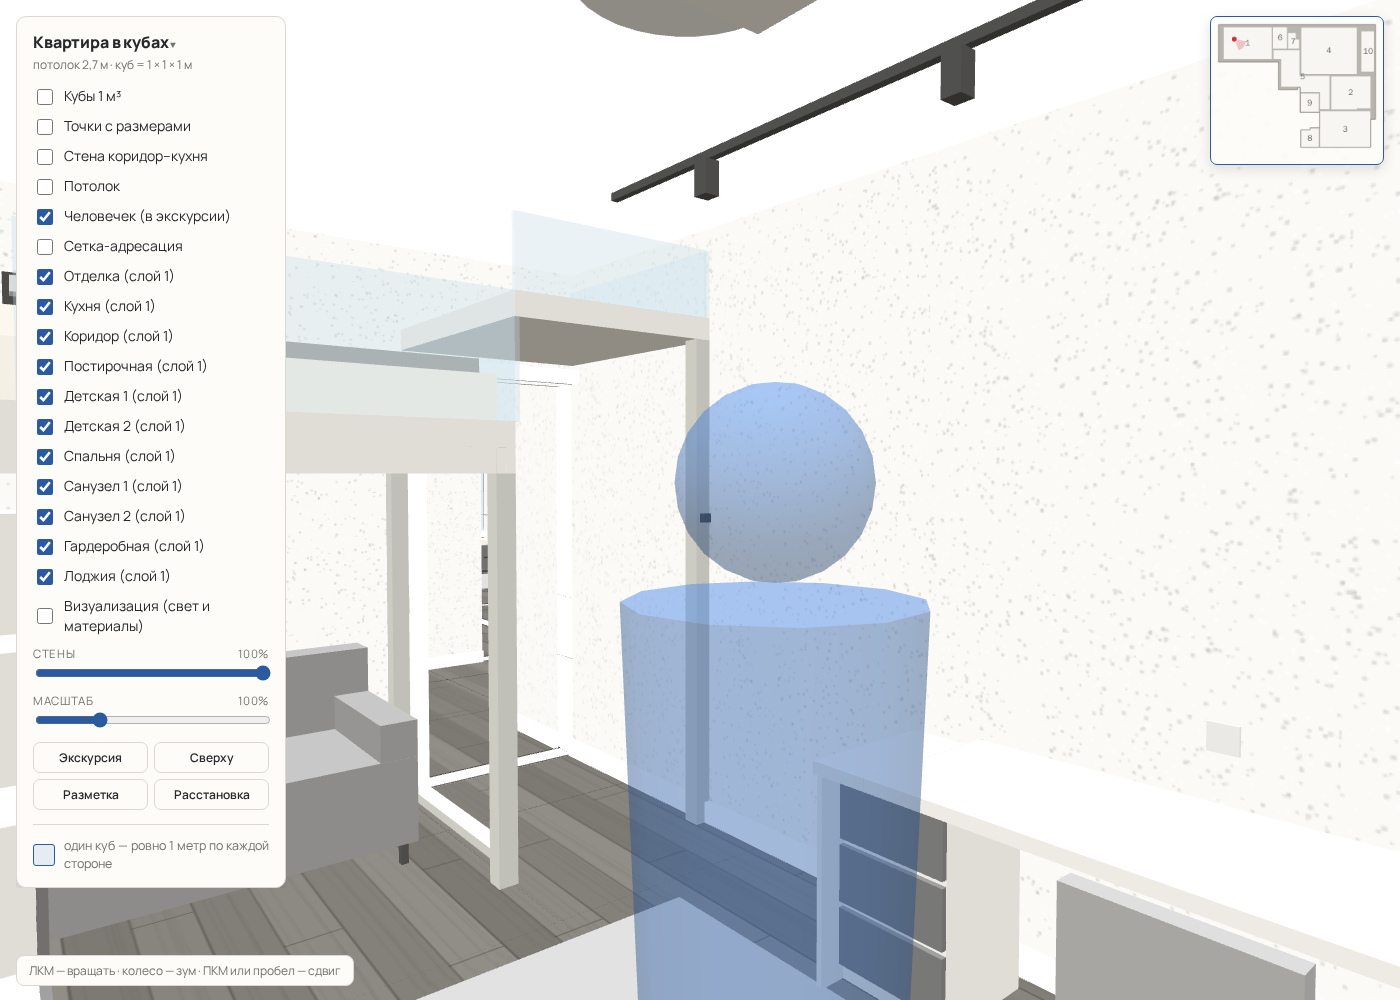
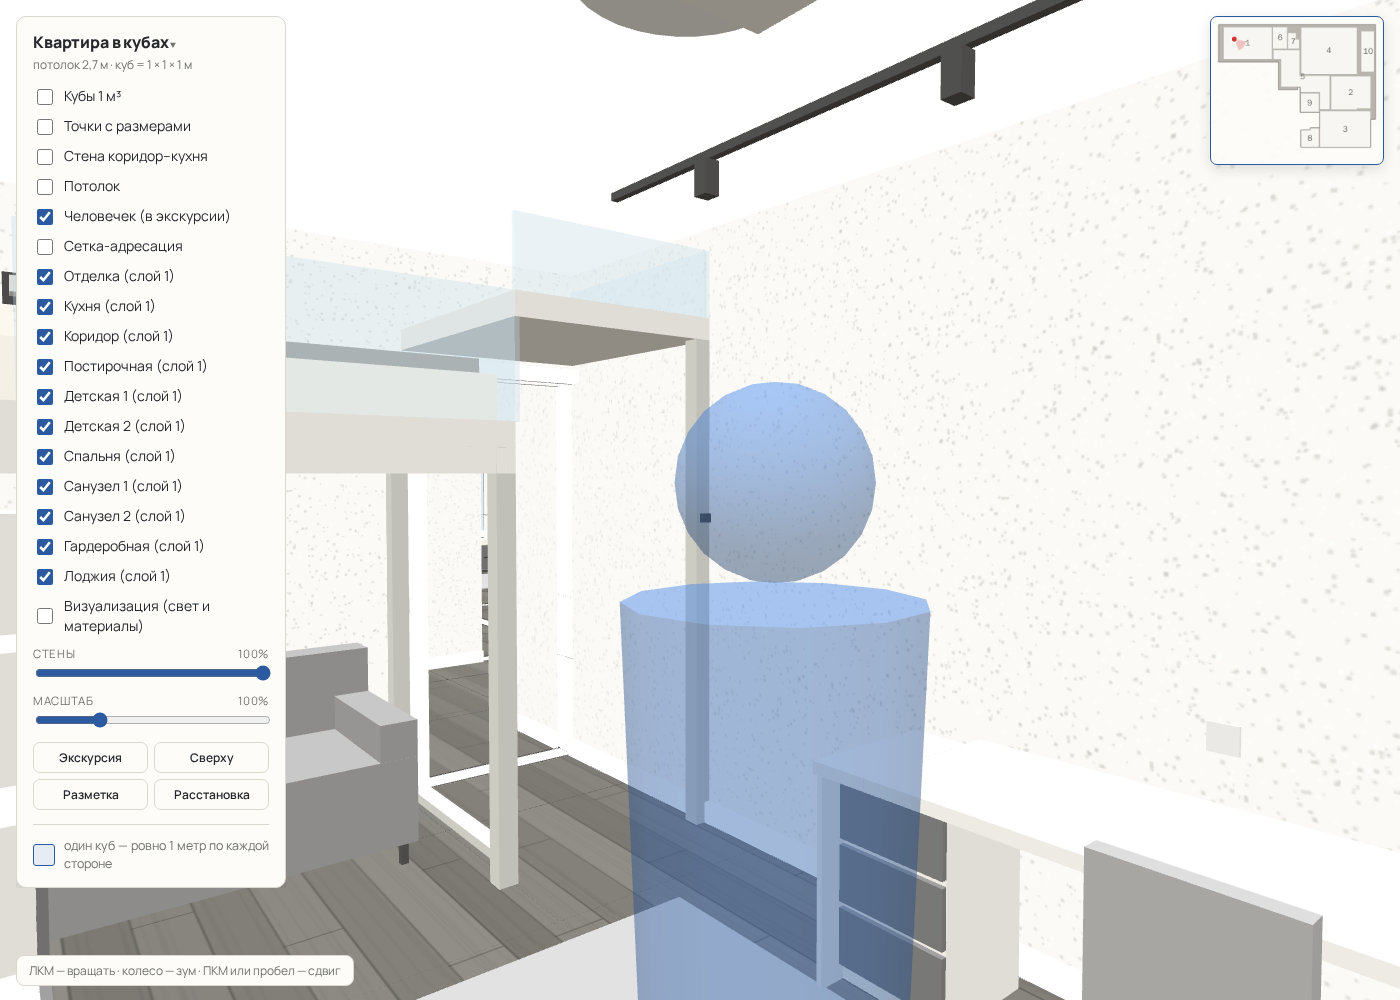
room1: chair tucked 0.26 under the desk; layout: a gap covered by a third item is not a corridor

Changed region(s): [[0.7371, 0.837, 0.9521, 1.0]]

diff --git a/layout.js b/layout.js
@@ -69,7 +69,12 @@
   // per part, not per item box: the loft bed's box covers the empty space under it; diagonal corners are not a corridor
   function minGap(a,b){ let best=null; const P=id=>PHYS[id].map(m=>new THREE.Box3().setFromObject(m)).filter(x=>x.min.y<1.9);
     P(a).forEach(x=>P(b).forEach(y=>{ const ox=Math.min(x.max.x,y.max.x)-Math.max(x.min.x,y.min.x), oz=Math.min(x.max.z,y.max.z)-Math.max(x.min.z,y.min.z);
-      const g=ox>0&&oz<=0.005?-oz:oz>0&&ox<=0.005?-ox:null; if(g!=null&&(best==null||g<best)) best=g; })); return best!=null&&best>0.15&&best<PASS?best:null; } // touching parts (gap ≤ 0.15) mean one block, not a corridor
+      const g=ox>0&&oz<=0.005?-oz:oz>0&&ox<=0.005?-ox:null; if(g==null||(best!=null&&g>=best)) return;
+      // the gap rectangle in plan; a gap fully under a third item (a chair beside a pedestal under one desk) is not a corridor
+      const r=ox>0?[Math.max(x.min.x,y.min.x),Math.min(x.max.x,y.max.x),Math.min(x.max.z,y.max.z),Math.max(x.min.z,y.min.z)]:[Math.min(x.max.x,y.max.x),Math.max(x.min.x,y.min.x),Math.max(x.min.z,y.min.z),Math.min(x.max.z,y.max.z)];
+      const covered=g>0.15&&Object.keys(PHYS).some(id=>id!==a&&id!==b&&PHYS[id].some(m=>{ const c=new THREE.Box3().setFromObject(m); return c.min.y<1.9&&c.min.x<=r[0]+0.005&&c.max.x>=r[1]-0.005&&c.min.z<=r[2]+0.005&&c.max.z>=r[3]-0.005; }));
+      if(g<=0.15||!covered) best=g; }));                                                              // touching parts stay one block even when something covers the seam
+    return best!=null&&best>0.15&&best<PASS?best:null; }                                                 // touching parts (gap ≤ 0.15) mean one block, not a corridor
   // real overlap: per-mesh boxes (a sofa under a loft bed sits between the legs, a socket above a desk is fine)
   function hits3d(a,b){ const A=PHYS[a].map(m=>new THREE.Box3().setFromObject(m)), B=PHYS[b].map(m=>new THREE.Box3().setFromObject(m)); const e=0.005;
     return A.some(x=>B.some(y=>x.min.x<y.max.x-e&&x.max.x>y.min.x+e&&x.min.y<y.max.y-e&&x.max.y>y.min.y+e&&x.min.z<y.max.z-e&&x.max.z>y.min.z+e)); }

diff --git a/items.js b/items.js
@@ -121,7 +121,7 @@ const PHYS={}; // id → boxes
     {id:'kidped',type:'тумба с 3 ящиками под столом у самого восточного края, глубина 0.40 — не упирается в стойку кровати; фасады к комнате',room:1,layer:'kid',pos:[2.615,4.364],rot:0,size:[0.42,0.68,0.40],
      build(b){ b(0.02,0.40,0,0.68,0.02,0.40,mat.kbody);
        [0.06,0.26,0.46].forEach(y=>b(0.02,0.40,y,y+0.18,0,0.02,mat.wdoor)); }},                   // push-to-open fronts, no handles (the chair sits right beside)
-    {id:'kidchair',type:'рабочее кресло, регулируемое, лицом к столу, сиденье на 0.08 под столешницей, вплотную к лежанке',room:1,layer:'kid',pos:[1.55,4.39],rot:270,size:[0.55,0.85,0.55],
+    {id:'kidchair',type:'рабочее кресло, регулируемое, лицом к столу, сиденье на 0.26 под столешницей, 0.13 от лежанки',room:1,layer:'kid',pos:[1.59,4.57],rot:270,size:[0.55,0.85,0.55],
      build(b,g){
        b(0.05,0.50,0.42,0.47,0.05,0.50,mat.cushion); b(0.50,0.55,0.47,0.85,0.08,0.47,mat.cushion);   // seat and back; rot 270 puts the back on the north side
        const c=new THREE.Mesh(new THREE.CylinderGeometry(0.025,0.025,0.39,10),mat.knob); c.position.set(0.275,0.225,0.275); g.add(c); // gas lift

diff --git a/tools/check.js b/tools/check.js
@@ -361,7 +361,7 @@ const { chromium } = require('playwright');
     const colored = []; kids.forEach(it => ITEM_GROUPS[it.id].traverse(o => { if (!o.isMesh || o.material.isMeshBasicMaterial || o.material.transparent) return; const c = o.material.color; if (Math.max(c.r, c.g, c.b) - Math.min(c.r, c.g, c.b) > 0.08 && !colored.includes(it.id)) colored.push(it.id); }));
     const desk = bb(ITEM_GROUPS.kiddesk), seat = bb(ITEM_GROUPS.windowseat1), shelfN = bb(ITEM_GROUPS.kidshelf), shelfS = bb(ITEM_GROUPS.kidshelf2), win = PLAN.windows[0];
     const deskStraight = desk.max.z - desk.min.z <= 0.61 && desk.max.z > 4.86 && desk.max.x - desk.min.x > 2.1;
-    const chair = bb(ITEM_GROUPS.kidchair), ped = bb(ITEM_GROUPS.kidped), chairIn = chair.max.z - desk.min.z >= 0.07, pedEnd = desk.max.x - ped.max.x < 0.025;
+    const chair = bb(ITEM_GROUPS.kidchair), ped = bb(ITEM_GROUPS.kidped), chairIn = chair.max.z - desk.min.z >= 0.25, pedEnd = desk.max.x - ped.max.x < 0.025;
     const seatOk = seat.min.z >= shelfN.max.z - 0.001 && seat.max.z <= desk.min.z + 0.001 && seat.max.x <= 1.52;
     const windowFree = shelfN.max.z <= win.z0 - 0.09 && shelfS.min.z >= win.z1 + 0.09;
     return { n: kids.length, inside, hitPlat, warn, tops, sofaTop, bedPos: ITEM_GROUPS.kidbed.userData.pos, colored, deskStraight, seatOk, windowFree, chairIn, pedEnd };

diff --git a/tasks/room1-kid/README.md b/tasks/room1-kid/README.md
@@ -393,3 +393,6 @@ issue: —
   на глубину 0.505; тумба у самого восточного края (x 2.615–3.035), глубина 0.40, фасады push-to-open без ручек;
   кресло вплотную к лежанке (x 1.55–2.10), сиденье на 0.08 под столешницей. Кресло между лежанкой и тумбой даёт
   «проход» < 0.7 по правилам расстановки, поэтому оно поставлено так, чтобы по z не пересекаться с тумбой.
+- Правка 3: кресло задвинуто на 0.18 глубже (сиденье на 0.26 под столешницей) и на 0.04 восточнее — 0.13 от фасадов
+  лежанки. `layout.js`: щель между двумя напольными предметами, целиком накрытая третьим (кресло и тумба под одной
+  столешницей), больше не считается проходом; касающиеся детали (≤ 0.15) по-прежнему один блок.
